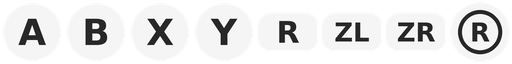
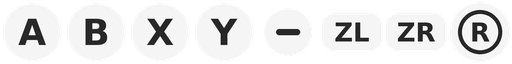
Switch controls: R a soft spray, ZR the full one, − the map
The GameCube's R is analog: part of the way sprays while Mario walks,
all the way (the click) roots him for the full stream. The Switch's
triggers are digital, so R (the shoulder) is now that partial press
(R_SOFT, 40%) and ZR the full one; − is the GameCube's Z (the map),
which was R; ZL stays L.

patches/sms-port/0014-platform-pad-defaults.patch adds SMS_PAD_DEFAULTS
(bindings.txt lines from the platform, after the built-in layout and
before bindings.txt), which switch_main.cpp sets; bindings.txt beside
the NRO still changes any of it. The button prompts show − for Z, and
the prompt image written beside the NRO before is replaced when it is
the old built-in one (a player's own is kept).

Changed region(s): [[0.5312, 0.3125, 0.5938, 0.6875]]

diff --git a/switch/src/switch_main.cpp b/switch/src/switch_main.cpp
@@ -264,11 +264,26 @@ std::string find_standalone_disc_image(const std::string& dir)
 }
 
 // prompts/switch.png from the program's copy (CMakeLists.txt), if missing.
+// The images written before Z moved from R to the - button (17498 bytes, by
+// FNV-1a): replaced with the program's, where a player's own are kept.
+bool old_default_prompts(const std::string& path)
+{
+	FILE* f = fopen(path.c_str(), "rb");
+	if (!f)
+		return false;
+	unsigned long long h = 0xcbf29ce484222325ull;
+	long n = 0;
+	for (int c; (c = fgetc(f)) != EOF; n++)
+		h = (h ^ (unsigned char)c) * 0x100000001b3ull;
+	fclose(f);
+	return n == 17498 && h == 0x6a443f9fc70a2e10ull;
+}
+
 void write_prompts(const std::string& dir)
 {
 	const std::string path = dir + "/switch.png";
 	struct stat st;
-	if (stat(path.c_str(), &st) == 0)
+	if (stat(path.c_str(), &st) == 0 && !old_default_prompts(path))
 		return;
 	mkdir(dir.c_str(), 0777);
 	if (FILE* f = fopen(path.c_str(), "wb")) {
@@ -374,6 +389,11 @@ __attribute__((constructor(101))) static void switch_start(void)
 	       "dpright:b14,dpup:b13,leftshoulder:b6,leftstick:b4,lefttrigger:b8,leftx:a0,lefty:a1,"
 	       "rightshoulder:b7,rightstick:b5,righttrigger:b9,rightx:a2,righty:a3,start:b10,x:b2,y:b3,",
 	       0);
+	// The Switch's layout over the PC port's (patches/sms-port/0014): R a soft
+	// spray (R part of the way, no click: Mario keeps walking), ZR the full
+	// one, - the map (the GameCube's Z), which was R; ZL stays L.
+	// bindings.txt beside the NRO changes it.
+	setenv("SMS_PAD_DEFAULTS", "Z = PAD_BACK\nR = PAD_RT\nR_SOFT = PAD_RB\n", 0);
 	// Button prompts as the Switch's buttons (button_prompts = gamecube in
 	// settings.txt for the game's own), from prompts/switch.png beside the NRO,
 	// written there from the program's copy when missing (replace it to

diff --git a/tools/make_prompts.py b/tools/make_prompts.py
@@ -1,7 +1,7 @@
 #!/usr/bin/env python3
 """Draw switch/prompts/switch.png: the Switch's buttons for the game's button
 glyphs (sms-port gx_prompts.cpp: eight 64x64 cells, A B X Y Z L R C-stick),
-as sms-switch maps them: A B X Y, Z = R, L = ZL, R = ZR, C-stick = right stick.
+as sms-switch maps them: A B X Y, Z = minus, L = ZL, R = ZR, C-stick = right stick.
 
     python3 tools/make_prompts.py [FONT.ttf] [OUT.png]
 """
@@ -40,6 +40,15 @@ def shoulder(label):  # a shoulder button: a rounded bar
     return im
 
 
+def minus():  # the - button: a small round button with a bar
+    im = Image.new("RGBA", (S, S), (0, 0, 0, 0))
+    d = ImageDraw.Draw(im)
+    m = 8 * SS
+    d.ellipse((m, m, S - m, S - m), fill=FILL)
+    d.rounded_rectangle((20 * SS, 29 * SS, S - 20 * SS, S - 29 * SS), radius=3 * SS, fill=INK)
+    return im
+
+
 def stick(label):  # a stick: a ring around its cap, with its letter
     im = Image.new("RGBA", (S, S), (0, 0, 0, 0))
     d = ImageDraw.Draw(im)
@@ -50,7 +59,7 @@ def stick(label):  # a stick: a ring around its cap, with its letter
     return im
 
 
-cells = [face("A"), face("B"), face("X"), face("Y"), shoulder("R"), shoulder("ZL"), shoulder("ZR"), stick("R")]
+cells = [face("A"), face("B"), face("X"), face("Y"), minus(), shoulder("ZL"), shoulder("ZR"), stick("R")]
 atlas = Image.new("RGBA", (CELL * len(cells), CELL), (0, 0, 0, 0))
 for i, c in enumerate(cells):
     atlas.paste(c.resize((CELL, CELL), Image.LANCZOS), (i * CELL, 0))

diff --git a/README.md b/README.md
@@ -122,7 +122,7 @@ Build and install the NSP again only to change its icon or the file it starts (s
 
 ## Controls
 
-Joy-Con and Pro Controllers work as the GameCube controller (the PC port's mapping: A/B/X/Y, + = Start, R = Z, ZL/ZR = L/R, sticks, d-pad).
+Joy-Con and Pro Controllers work as the GameCube controller: A/B/X/Y, + = Start, − = Z (the map), ZL = L, ZR = R pressed all the way (a full spray, Mario stands still), R = R pressed part of the way (a soft spray: Mario keeps walking), sticks, d-pad. `bindings.txt` beside the NRO changes any of it (`R_SOFT`, `PAD_RB`, ... as on the PC).
 
 | | |
 | --- | --- |
